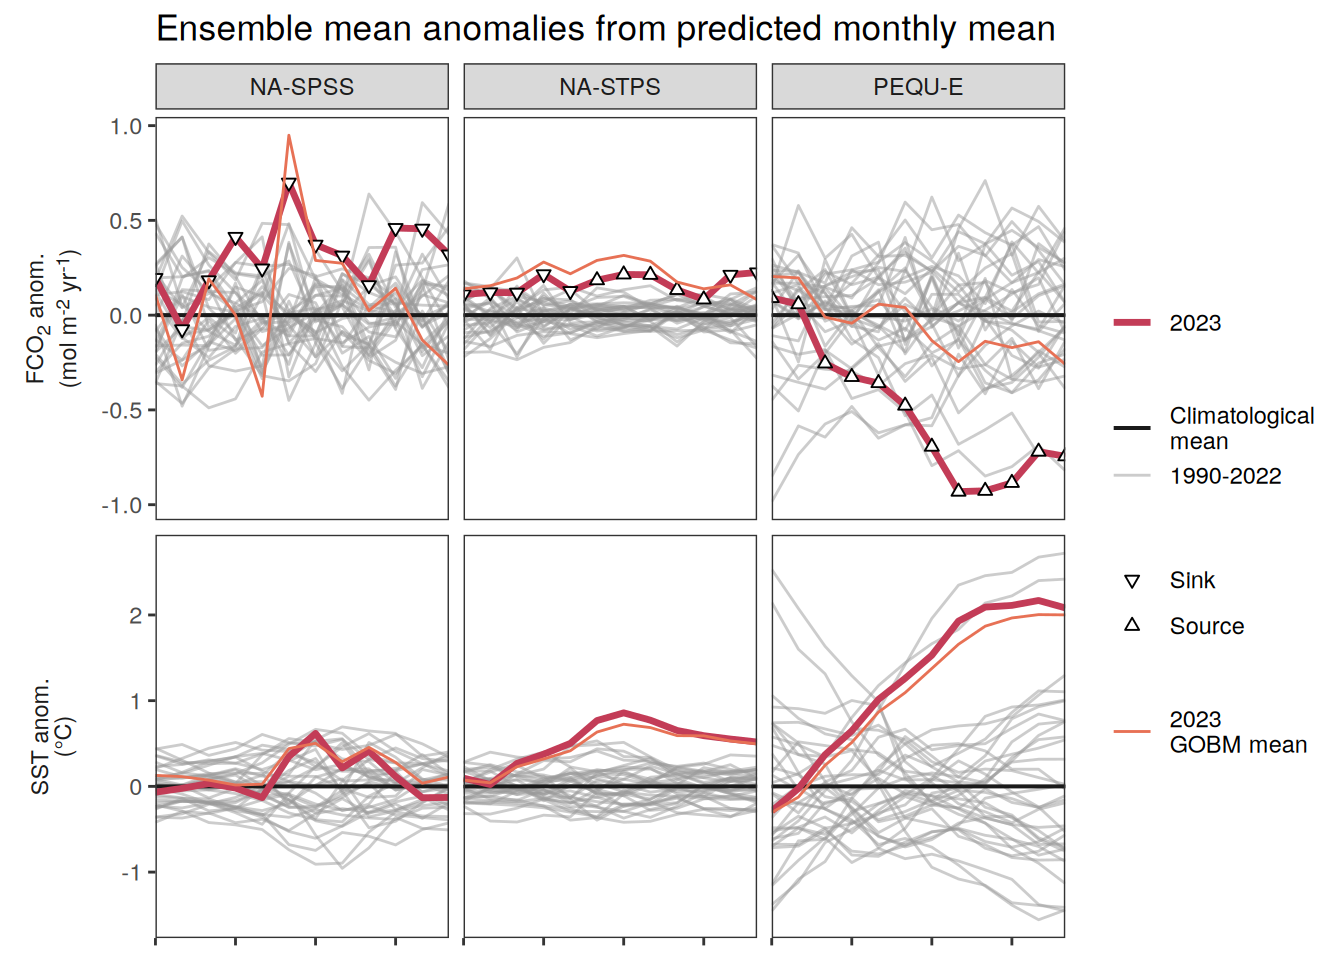
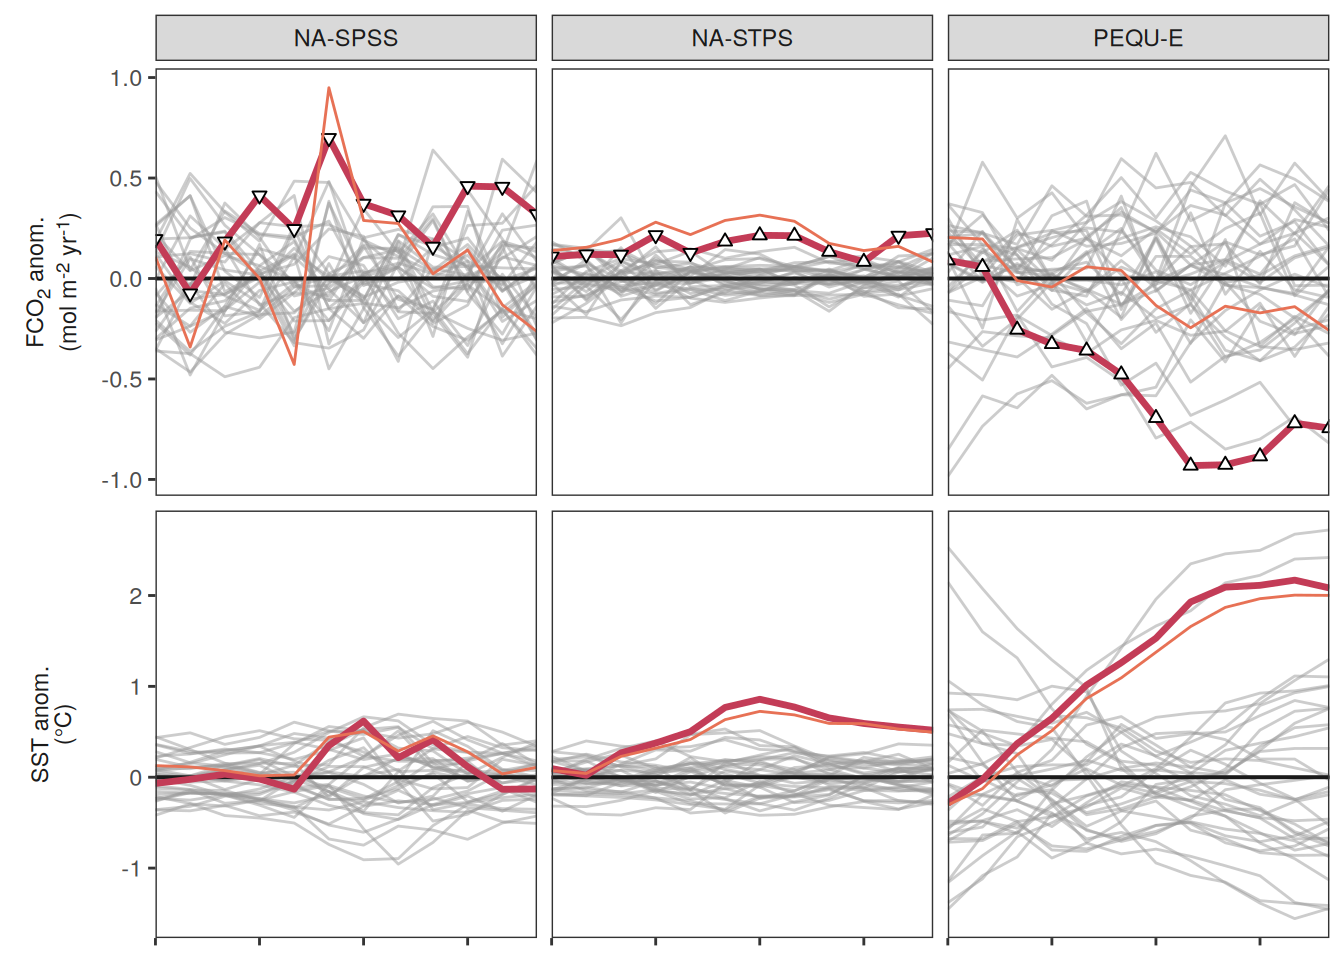
Build site.

diff --git a/docs/pco2_product_synopsis_2023_GCB.html b/docs/pco2_product_synopsis_2023_GCB.html
@@ -483,7 +483,7 @@ div.tocify {
 
 <h1 class="title toc-ignore">pCO2 product synopsis 2023 GCB</h1>
 <h4 class="author">Jens Daniel Müller</h4>
-<h4 class="date">25 June, 2025</h4>
+<h4 class="date">26 June, 2025</h4>
 
 </div>
 
@@ -512,7 +512,7 @@ class="glyphicon glyphicon-ok text-success" aria-hidden="true"></span>
 <div class="tab-content">
 <div id="summary" class="tab-pane fade in active">
 <p>
-<strong>Last updated:</strong> 2025-06-25
+<strong>Last updated:</strong> 2025-06-26
 </p>
 <p>
 <strong>Checks:</strong> <span
@@ -644,15 +644,15 @@ project makes it easier to run your code on other machines.</p>
 <div class="panel panel-default">
 <div class="panel-heading">
 <p class="panel-title">
-<a data-toggle="collapse" data-parent="#workflowr-checks" href="#strongRepositoryversionstrongahrefhttpsgithubcomjensdanielmuellerheatwaveco2flux2023tree265b0a83f907192697995d2d449c272b1649393dtargetblank265b0a8a">
+<a data-toggle="collapse" data-parent="#workflowr-checks" href="#strongRepositoryversionstrongahrefhttpsgithubcomjensdanielmuellerheatwaveco2flux2023tree54966ab1a85676925f87f6aa754b495007dd4d8dtargetblank54966aba">
 <span class="glyphicon glyphicon-ok text-success"
 aria-hidden="true"></span> <strong>Repository version:</strong>
-<a href="https://github.com/jens-daniel-mueller/heatwave_co2_flux_2023/tree/265b0a83f907192697995d2d449c272b1649393d" target="_blank">265b0a8</a>
+<a href="https://github.com/jens-daniel-mueller/heatwave_co2_flux_2023/tree/54966ab1a85676925f87f6aa754b495007dd4d8d" target="_blank">54966ab</a>
 </a>
 </p>
 </div>
 <div
[2 lines of base64/hex data omitted]
 class="panel-collapse collapse">
 <div class="panel-body">
 <p>
@@ -662,7 +662,7 @@ reproducibility.
 </p>
 <p>
 The results in this page were generated with repository version
-<a href="https://github.com/jens-daniel-mueller/heatwave_co2_flux_2023/tree/265b0a83f907192697995d2d449c272b1649393d" target="_blank">265b0a8</a>.
+<a href="https://github.com/jens-daniel-mueller/heatwave_co2_flux_2023/tree/54966ab1a85676925f87f6aa754b495007dd4d8d" target="_blank">54966ab</a>.
 See the <em>Past versions</em> tab to see a history of the changes made
 to the R Markdown and HTML files.
 </p>
@@ -732,6 +732,23 @@ Message
 </tr>
 </thead>
 <tbody>
+<tr>
+<td>
+html
+</td>
+<td>
+<a href="https://rawcdn.githack.com/jens-daniel-mueller/heatwave_co2_flux_2023/54966ab1a85676925f87f6aa754b495007dd4d8d/docs/pco2_product_synopsis_2023_GCB.html" target="_blank">54966ab</a>
+</td>
+<td>
+jens-daniel-mueller
+</td>
+<td>
+2025-06-25
+</td>
+<td>
+Build site.
+</td>
+</tr>
 <tr>
 <td>
 html
@@ -4019,9 +4036,9 @@ jens-daniel-mueller
     )
   )
 
-ggsave(plot = wrap_plots(plot_list,
+ggsave(plot = wrap_plots(rev(plot_list),
                          ncol = 2,
-                         byrow = FALSE),
+                         byrow = TRUE),
        width = 10,
        height = 3,
        dpi = 900,
@@ -4226,8 +4243,8 @@ rm(plot_list,
 
 gc()</code></pre>
 <pre><code>            used   (Mb) gc trigger   (Mb)  max used   (Mb)
-Ncells   3171638  169.4    6803144  363.4   6803144  363.4
-Vcells 334911285 2555.2  600140689 4578.8 600140689 4578.8</code></pre>
+Ncells   3124910  166.9    7041410  376.1   7041410  376.1
+Vcells 334853757 2554.8  599853148 4576.6 599832672 4576.4</code></pre>
 </div>
 <div id="bivariate-anomaly" class="section level3">
 <h3>Bivariate anomaly</h3>
@@ -4815,7 +4832,7 @@ jens-daniel-mueller
 <pre class="r"><code>ggsave(width = 5,
        height = 2.5,
        dpi = 1200,
-       filename = &quot;../output/map_anomaly_bivariate_ensemble_mean_pco2_products.pdf&quot;)
+       filename = &quot;../output/Fig5_a_map.pdf&quot;)
 
 bi_breaks$bi_x &lt;- bi_breaks$bi_x[-1]
 bi_breaks$bi_x[1] &lt;- paste0(&quot;-&quot;, bi_breaks$bi_x[1])
@@ -4938,7 +4955,7 @@ jens-daniel-mueller
 <pre class="r"><code>ggsave(width = 4,
        height = 3,
        dpi = 600,
-       filename = &quot;../output/map_anomaly_bivariate_ensemble_mean_pco2_products_legend.pdf&quot;)</code></pre>
+       filename = &quot;../output/Fig5_a_legend.pdf&quot;)</code></pre>
 <pre class="r"><code>pco2_product_zonal_annual_anomaly &lt;-
 pco2_product_hovmoeller_monthly_anomaly %&gt;%
   filter(year == 2023) %&gt;%
@@ -5292,7 +5309,7 @@ jens-daniel-mueller
 </div>
 <pre class="r"><code>ggsave(width = 2.8,
        height = 4.5,
-       filename = &quot;../output/zonal_mean_anomaly_pco2_product_ensemble_mean_bivariate_color.pdf&quot;)
+       filename = &quot;../output/Fig5_b.pdf&quot;)
 
 p_zonal_fgco2 &lt;- 
 pco2_product_zonal_annual_anomaly_ensemble %&gt;%
@@ -6184,8 +6201,8 @@ rm(
 
 gc()</code></pre>
 <pre><code>            used   (Mb) gc trigger   (Mb)  max used   (Mb)
-Ncells   3310667  176.9    6803144  363.4   6803144  363.4
-Vcells 352883909 2692.3  602128004 4593.9 602128004 4593.9</code></pre>
+Ncells   3264432  174.4    7041410  376.1   7041410  376.1
+Vcells 352827133 2691.9  600295457 4579.9 600295457 4579.9</code></pre>
 <pre class="r"><code>pco2_product_2024_map_annual_anomaly_temperature_predict_merge &lt;-
   bind_rows(
     pco2_product_2024_map_annual_anomaly_temperature_predict %&gt;%
@@ -6580,8 +6597,8 @@ jens-daniel-mueller
 
 gc()</code></pre>
 <pre><code>            used   (Mb) gc trigger   (Mb)  max used   (Mb)
-Ncells   3261542  174.2    6803144  363.4   6803144  363.4
-Vcells 308504034 2353.7  602254947 4594.9 602254947 4594.9</code></pre>
+Ncells   3215982  171.8    7041410  376.1   7041410  376.1
+Vcells 308449352 2353.3  600295457 4579.9 600295457 4579.9</code></pre>
 </div>
 <div id="fco2-decomposition-1" class="section level3">
 <h3>fCO2 decomposition</h3>
@@ -6677,8 +6694,8 @@ pco2_product_map_monthly_fCO2_decomposition %&gt;%
 
 gc()</code></pre>
 <pre><code>            used   (Mb) gc trigger   (Mb)  max used   (Mb)
-Ncells   3231681  172.6    6803144  363.4   6803144  363.4
-Vcells 282273720 2153.6  602254947 4594.9 602254947 4594.9</code></pre>
+Ncells   3185487  170.2    7041410  376.1   7041410  376.1
+Vcells 282217722 2153.2  600295457 4579.9 600295457 4579.9</code></pre>
 <pre class="r"><code>pco2_product_map_annual_fCO2_decomposition %&gt;%
   filter(year == 2023) %&gt;%
   select(-year) %&gt;% 
@@ -6979,7 +6996,32 @@ jens-daniel-mueller
        dpi = 1200,
        filename = &quot;../output/map_anomaly_fco2_decomposition_ensemble_mean_pco2_products.pdf&quot;)
 
+grDevices::cairo_pdf(
+  &quot;../output/Fig3_edf.pdf&quot;,
+  width = 5.5,
+  height = 7.5,
+  onefile = TRUE
+)
+
+
 pco2_product_map_annual_fCO2_decomposition_ensemble %&gt;%
+  select(lon, lat, name, resid_mean) %&gt;% 
+  mutate(name = fct_relevel(name,
+                            c(&quot;sfco2_therm&quot;, &quot;sfco2_nontherm&quot;))) %&gt;% 
+  p_map_mdim_robinson(
+    df_uncertainty = pco2_product_map_annual_fCO2_decomposition_ensemble_uncertainty,
+    var = &quot;resid_mean&quot;,
+    legend_title = labels_breaks(&quot;sfco2&quot;)$i_legend_title,
+    breaks = 2*(labels_breaks(&quot;sfco2&quot;)$i_breaks),
+    dim_wrap = &quot;name&quot;,
+    n_col = 1,
+    n_labels = 2
+  )
+
+dev.off()</code></pre>
+<pre><code>png 
+  2 </code></pre>
+<pre class="r"><code>pco2_product_map_annual_fCO2_decomposition_ensemble %&gt;%
   select(lon, lat, name, resid_mean) %&gt;% 
   mutate(name = fct_relevel(name,
                             c(&quot;sfco2_therm&quot;, &quot;sfco2_nontherm&quot;))) %&gt;% 
@@ -7461,7 +7503,31 @@ jens-daniel-mueller
 <pre class="r"><code>ggsave(width = 5,
        height = 7,
        dpi = 1200,
-       filename = &quot;../output/map_anomaly_flux_attribution_ensemble_mean_pco2_products.pdf&quot;)</code></pre>
+       filename = &quot;../output/map_anomaly_flux_attribution_ensemble_mean_pco2_products.pdf&quot;)
+
+grDevices::cairo_pdf(
+  &quot;../output/Fig3_acb.pdf&quot;,
+  width = 5.5,
+  height = 7.5,
+  onefile = TRUE
+)
+
+
+pco2_product_map_annual_flux_attribution_ensemble %&gt;%
+  select(lon, lat, name, resid_mean) %&gt;% 
+  p_map_mdim_robinson(
+    df_uncertainty = pco2_product_map_annual_flux_attribution_ensemble_uncertainty,
+    var = &quot;resid_mean&quot;,
+    legend_title = labels_breaks(&quot;fgco2&quot;)$i_legend_title,
+    breaks = labels_breaks(&quot;fgco2&quot;)$i_breaks,
+    dim_wrap = &quot;name&quot;,
+    n_col = 1,
+    n_labels = 2
+  )
+
+dev.off()</code></pre>
+<pre><code>png 
+  2 </code></pre>
 </div>
 </div>
 </div>
@@ -13789,6 +13855,7 @@ jens-daniel-mueller
     width = 9,
     height = 10,
     onefile = TRUE)
+
 pco2_product_biome_monthly_detrended %&gt;%
   filter(biome %in% c(&quot;Global non-polar&quot;, key_biomes),
          name %in% name_core) %&gt;%
@@ -17947,9 +18014,10 @@ jens-daniel-mueller
   summarise(across(where(is.numeric), mean)) %&gt;%
   ungroup() %&gt;%
   filter(name %in% c(&quot;temperature&quot;, &quot;fgco2&quot;), biome %in% key_biomes) %&gt;%
-  p_season(dim_col = &quot;biome&quot;, 
-           title = &quot;Ensemble mean anomalies from predicted monthly mean&quot;) +
-  theme(axis.title.x = element_blank(), axis.text.x = element_blank()) +
+  p_season(dim_col = &quot;biome&quot;) +
+  theme(axis.title.x = element_blank(), 
+        axis.text.x = element_blank(),
+        legend.position = &quot;none&quot;) +
   new_scale_color() +
   scale_color_manual(values = warm_cool_gradient[15]) +
   geom_path(
@@ -18039,7 +18107,7 @@ jens-daniel-mueller
 <pre class="r"><code>ggsave(width = 9,
        height = 4,
        dpi = 600,
-       filename = &quot;../output/biome_seasonal_anomaly_fgco2_sst_ensemble_mean_pco2_products.pdf&quot;)
+       filename = &quot;../output/Fig4_ab.pdf&quot;)
 
 
 pco2_product_biome_monthly_detrended %&gt;%
@@ -20003,7 +20071,7 @@ ggsave(plot = wrap_plots(plot_list,
        width = 10,
        height = 6,
        dpi = 600,
-       filename = &quot;../output/profiles_hovmoeller_ensemble_mean_gobm_evolution.pdf&quot;)
+       filename = &quot;../output/Fig4_cd.pdf&quot;)
 
 
 plot_list_left &lt;-
@@ -20165,40 +20233,39 @@ other attached packages:
 [25] lubridate_1.9.3     forcats_1.0.0       stringr_1.5.1      
 [28] dplyr_1.1.4         purrr_1.0.2         readr_2.1.5        
 [31] tidyr_1.3.1         tibble_3.2.1        ggplot2_3.5.1      
-[34] tidyverse_2.0.0     workflowr_1.7.1    
+[34] tidyverse_2.0.0    
 
 loaded via a namespace (and not attached):
  [1] DBI_1.2.3               rlang_1.1.4             magrittr_2.0.3         
  [4] git2r_0.35.0            e1071_1.7-16            compiler_4.4.2         
- [7] mgcv_1.9-1              getPass_0.2-4           systemfonts_1.1.0      
-[10] callr_3.7.6             vctrs_0.6.5             pkgconfig_2.0.3        
-[13] crayon_1.5.3            fastmap_1.2.0           backports_1.5.0        
-[16] labeling_0.4.3          utf8_1.2.4              promises_1.3.2         
-[19] rmarkdown_2.29          markdown_1.13           tzdb_0.4.0             
-[22] ps_1.8.1                ragg_1.3.3              bit_4.5.0              
-[25] xfun_0.49               cachem_1.1.0            jsonlite_1.8.9         
-[28] later_1.4.1             tweenr_2.0.3            parallel_4.4.2         
-[31] R6_2.5.1                RColorBrewer_1.1-3      bslib_0.8.0            
-[34] stringi_1.8.4           jquerylib_0.1.4         Rcpp_1.0.13-1          
-[37] knitr_1.49              Matrix_1.7-1            splines_4.4.2          
-[40] httpuv_1.6.15           timechange_0.3.0        tidyselect_1.2.1       
-[43] rstudioapi_0.17.1       yaml_2.3.10             codetools_0.2-20       
-[46] processx_3.8.4          lattice_0.22-6          withr_3.0.2            
-[49] evaluate_1.0.1          isoband_0.2.7           rnaturalearthdata_1.0.0
-[52] units_0.8-5             proxy_0.4-27            polyclip_1.10-7        
-[55] xml2_1.3.6              pillar_1.9.0            whisker_0.4.1          
-[58] KernSmooth_2.23-24      checkmate_2.3.2         generics_0.1.3         
-[61] vroom_1.6.5             rprojroot_2.0.4         hms_1.1.3              
-[64] commonmark_1.9.2        munsell_0.5.1           class_7.3-22           
-[67] glue_1.8.0              tools_4.4.2             data.table_1.16.2      
-[70] fs_1.6.5                cowplot_1.1.3           grid_4.4.2             
-[73] nlme_3.1-166            cli_3.6.3               textshaping_0.4.0      
-[76] fansi_1.0.6             viridisLite_0.4.2       svglite_2.1.3          
-[79] gtable_0.3.6            sass_0.4.9              digest_0.6.37          
-[82] classInt_0.4-10         farver_2.1.2            memoise_2.0.1          
-[85] htmltools_0.5.8.1       lifecycle_1.0.4         httr_1.4.7             
-[88] here_1.0.1              gridtext_0.1.5          bit64_4.5.2            
-[91] MASS_7.3-61            </code></pre>
+ [7] mgcv_1.9-1              systemfonts_1.1.0       vctrs_0.6.5            
+[10] pkgconfig_2.0.3         crayon_1.5.3            fastmap_1.2.0          
+[13] backports_1.5.0         labeling_0.4.3          utf8_1.2.4             
+[16] promises_1.3.2          rmarkdown_2.29          markdown_1.13          
+[19] tzdb_0.4.0              ragg_1.3.3              bit_4.5.0              
+[22] xfun_0.49               cachem_1.1.0            jsonlite_1.8.9         
+[25] later_1.4.1             tweenr_2.0.3            parallel_4.4.2         
+[28] R6_2.5.1                RColorBrewer_1.1-3      bslib_0.8.0            
+[31] stringi_1.8.4           jquerylib_0.1.4         Rcpp_1.0.13-1          
+[34] knitr_1.49              Matrix_1.7-1            splines_4.4.2          
+[37] httpuv_1.6.15           timechange_0.3.0        tidyselect_1.2.1       
+[40] rstudioapi_0.17.1       yaml_2.3.10             codetools_0.2-20       
+[43] lattice_0.22-6          withr_3.0.2             evaluate_1.0.1         
+[46] isoband_0.2.7           rnaturalearthdata_1.0.0 units_0.8-5            
+[49] proxy_0.4-27            polyclip_1.10-7         xml2_1.3.6             
+[52] pillar_1.9.0            whisker_0.4.1           KernSmooth_2.23-24     
+[55] checkmate_2.3.2         generics_0.1.3          vroom_1.6.5            
+[58] rprojroot_2.0.4         hms_1.1.3               commonmark_1.9.2       
+[61] munsell_0.5.1           class_7.3-22            glue_1.8.0             
+[64] tools_4.4.2             data.table_1.16.2       fs_1.6.5               
+[67] cowplot_1.1.3           grid_4.4.2              nlme_3.1-166           
+[70] cli_3.6.3               textshaping_0.4.0       workflowr_1.7.1        
+[73] fansi_1.0.6             viridisLite_0.4.2       svglite_2.1.3          
+[76] gtable_0.3.6            sass_0.4.9              digest_0.6.37          
+[79] classInt_0.4-10         farver_2.1.2            memoise_2.0.1          
+[82] htmltools_0.5.8.1       lifecycle_1.0.4         httr_1.4.7             
+[85] here_1.0.1              gridtext_0.1.5          bit64_4.5.2            
+[88] MASS_7.3-61            </code></pre>
 </div>
 </div>
 </div>
